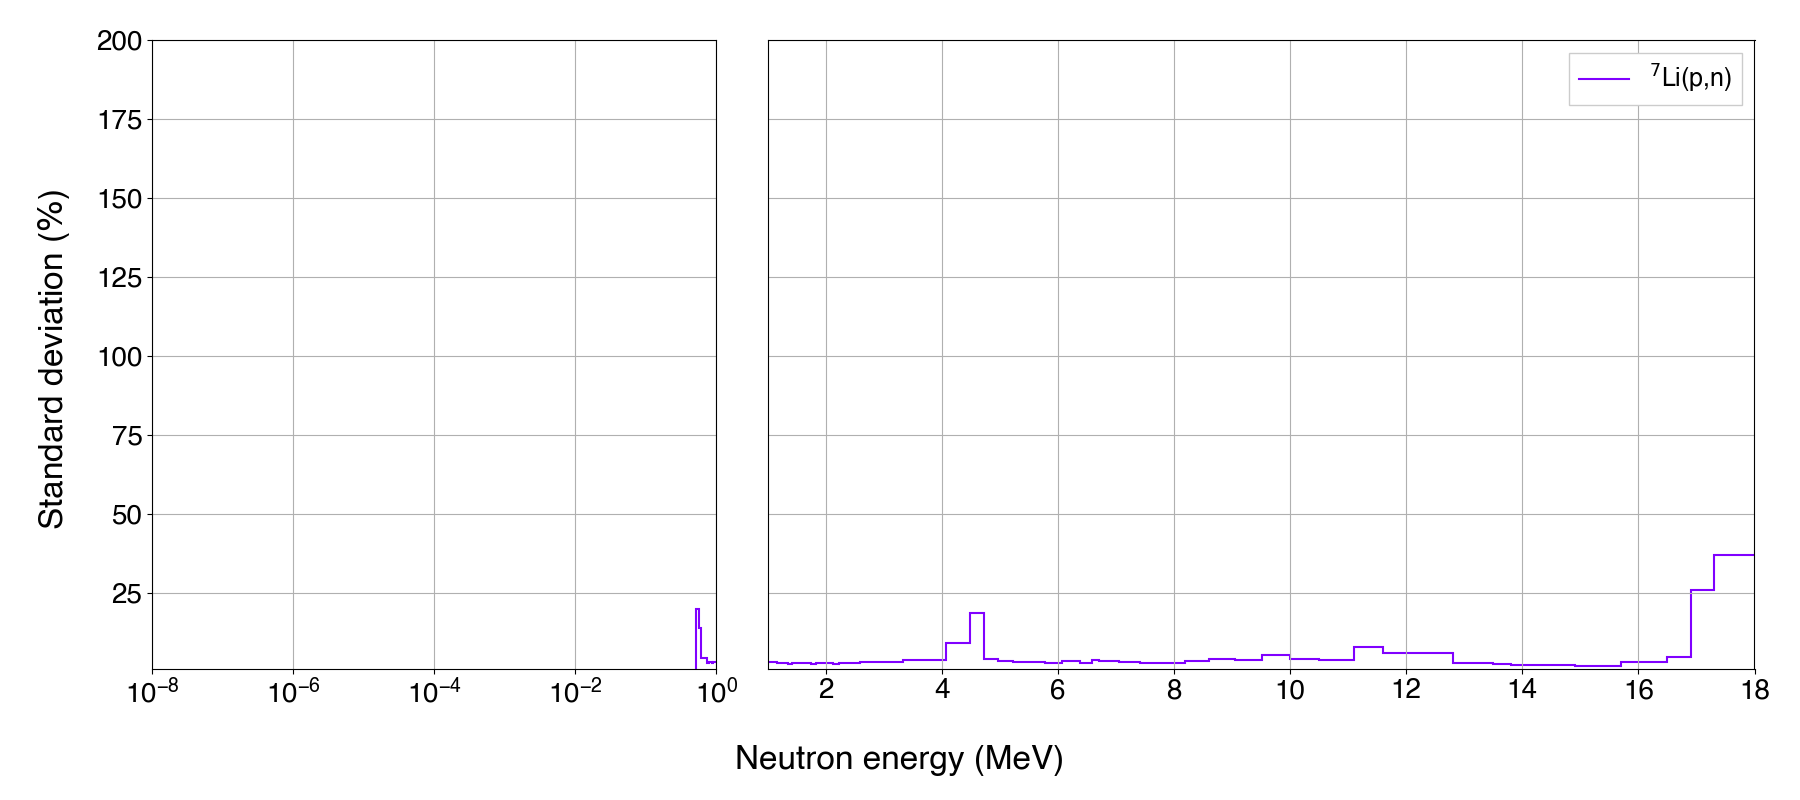
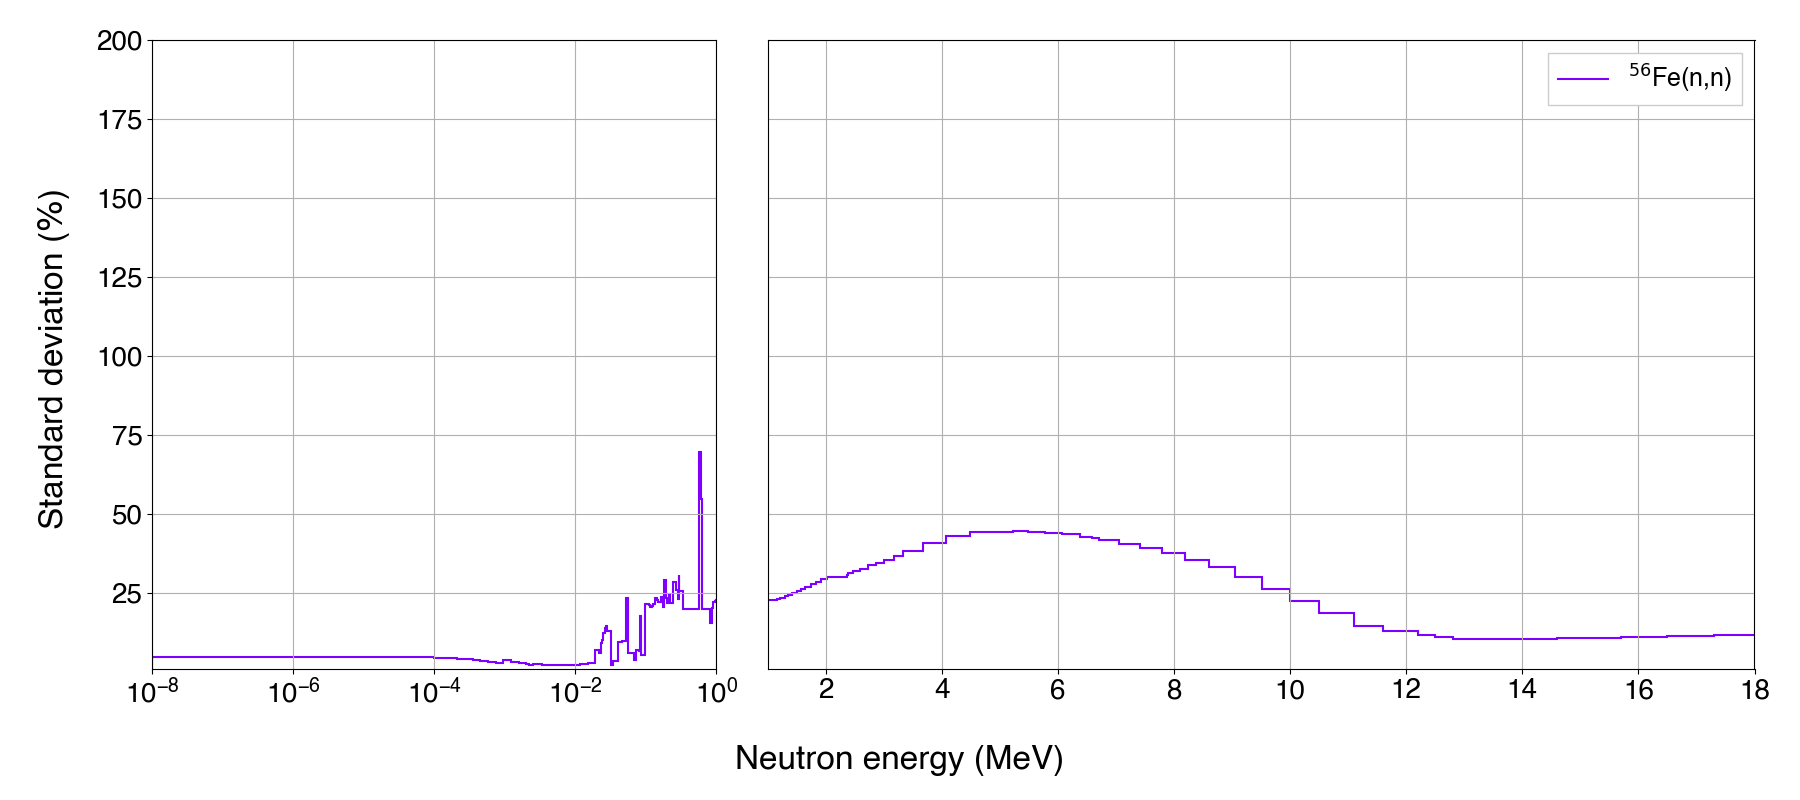
no idea development moving over to nFoils (may clone a sandy repo to mess around with using IRDFF data)

diff --git a/response_functions/njoy_responses.py b/response_functions/njoy_responses.py
@@ -16,8 +16,8 @@ os.environ['NJOY'] = '/Users/ljb841@student.bham.ac.uk/NJOY2016/bin/njoy'
 #ek=custom_gs
 ek=sandy.energy_grids.VITAMINJ175
 
-library = 'endfb_81d' # endfb_71 endfb_80 jendl_40u jeff_33 tendl_21
-data_file_name = 'data/target_data_dli'
+library = 'endfb_80' # endfb_71 endfb_80 jendl_40u jeff_33 tendl_21
+data_file_name = 'data/foil_data_fe'
 #reaction_labels = [r'${}^{115}$In(n,$\gamma$)',
 #                r'${}^{164}$Dy(n,$\gamma$)',
 #                r'${}^{197}$Au(n,$\gamma$)',
@@ -29,26 +29,26 @@ data_file_name = 'data/target_data_dli'
 #                r'${}^{93}$Nb(n,2n)',
 #                r'${}^{58}$Ni(n,2n) ']
 
-#reaction_labels = [r'${}^{56}$Fe(n,p)']
-reaction_labels = ['${}^{7}$Li(p,n)']
+reaction_labels = [r'${}^{56}$Fe(n,n)']
+#reaction_labels = ['${}^{7}$Li(p,n)']
 
 # run the sandy get_endf routine
 def _get_endf_file(material):
     endf_file = sandy.get_endf6_file(library, "xs", material)
+    print(endf_file)
     return endf_file
 
 # get covariance, standard deviation, from a material endf6 file
 def _get_errorr_data(material,mt_value):
     mt = [mt_value]
-    #try:
-    # use the get_errorr function to grab cov,std data
-    endf_file = _get_endf_file(material)
-    print(endf_file)
-    ekws = dict(ek=ek)
-    err = endf_file.get_errorr(temperature=0,err=1,chi=False, nubar=False, mubar=False, errorr33_kws=ekws,verbose=False)["errorr33"]
-    #except:
-    #    print(f'-----> reactions not found for MAT {material}: MT {mt_value}')
-    #    return [],np.array([])
+    try:
+        # use the get_errorr function to grab cov,std data
+        endf_file = _get_endf_file(material)
+        ekws = dict(ek=ek)
+        err = endf_file.get_errorr(temperature=0,err=1,chi=False, nubar=False, mubar=False, errorr33_kws=ekws,verbose=False)["errorr33"]
+    except:
+        print(f'-----> reactions not found for MAT {material}: MT {mt_value}')
+        return [],np.array([])
     covariance = err.get_cov()
     std = covariance.get_std().reset_index().query("MT in @mt")
     xs = err.get_xs(mt=mt).data.to_numpy()
@@ -110,7 +110,7 @@ def _export_and_plot_stdev(material_list,mt_values_list,reaction_labels):
             # plot uncertainty data
             ek_mev = [(i/1e6) for i in ek]
             for mt_iterator in range(len(array_of_arrays)):
-                print(f'uncert at {ek_mev[-10]} MeV is {array_of_arrays[mt_iterator][-10]}')
+                print(f'uncert at {ek_mev[6]} MeV is {array_of_arrays[mt_iterator][6]}%')
                 c=next(color)
                 ax1.stairs(array_of_arrays[mt_iterator], ek_mev,label=f'{reaction}',color=c,lw=1.5)
                 ax2.stairs(array_of_arrays[mt_iterator], ek_mev,label=f'{reaction}',color=c,lw=1.5)
